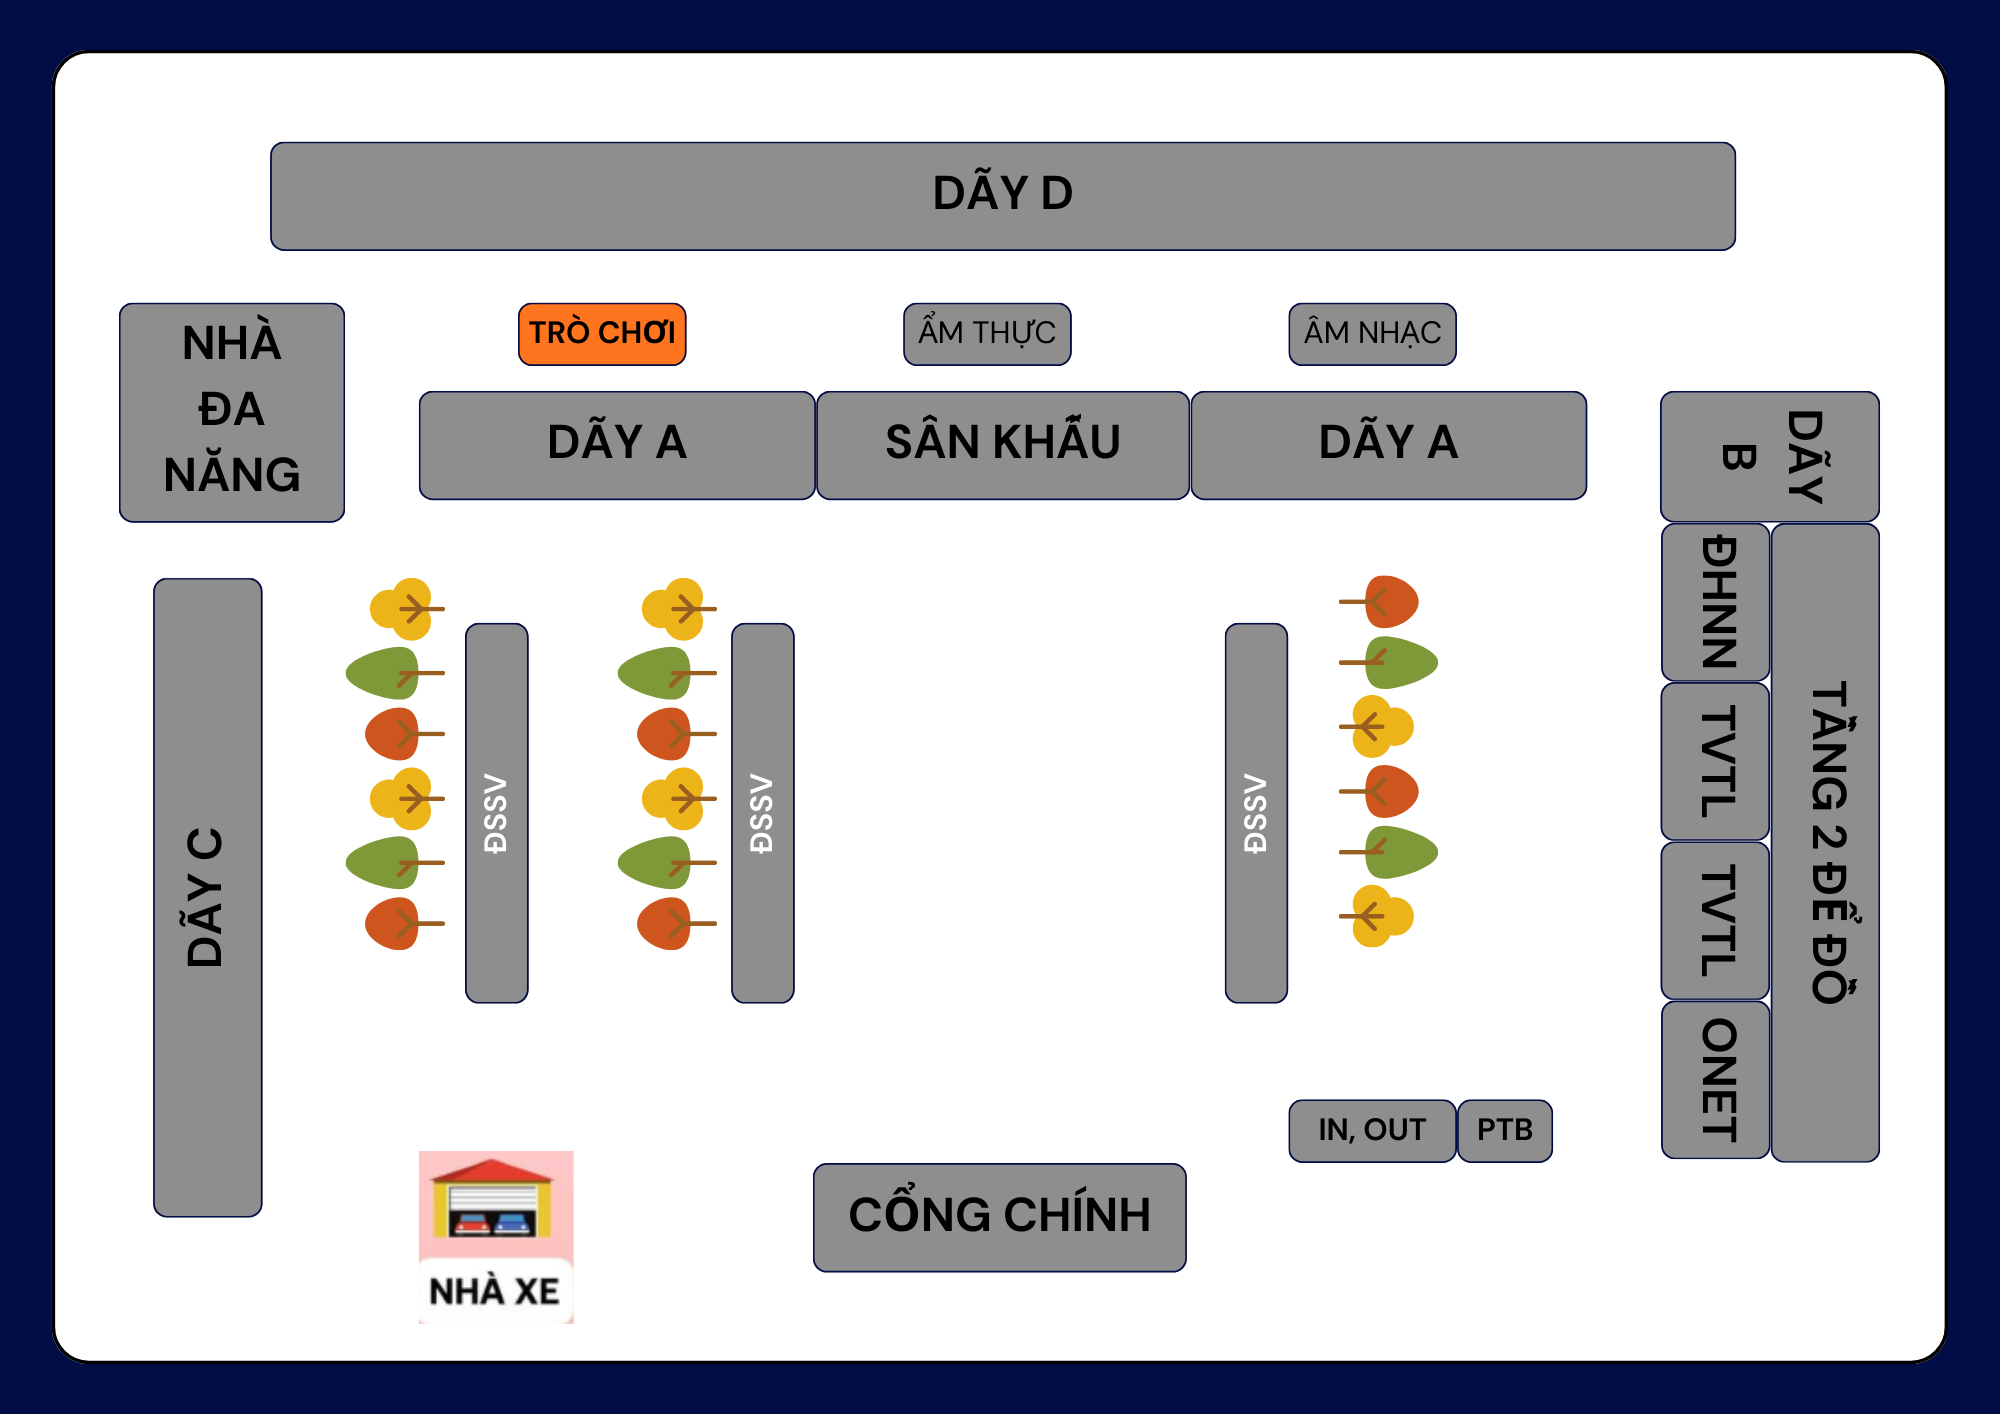
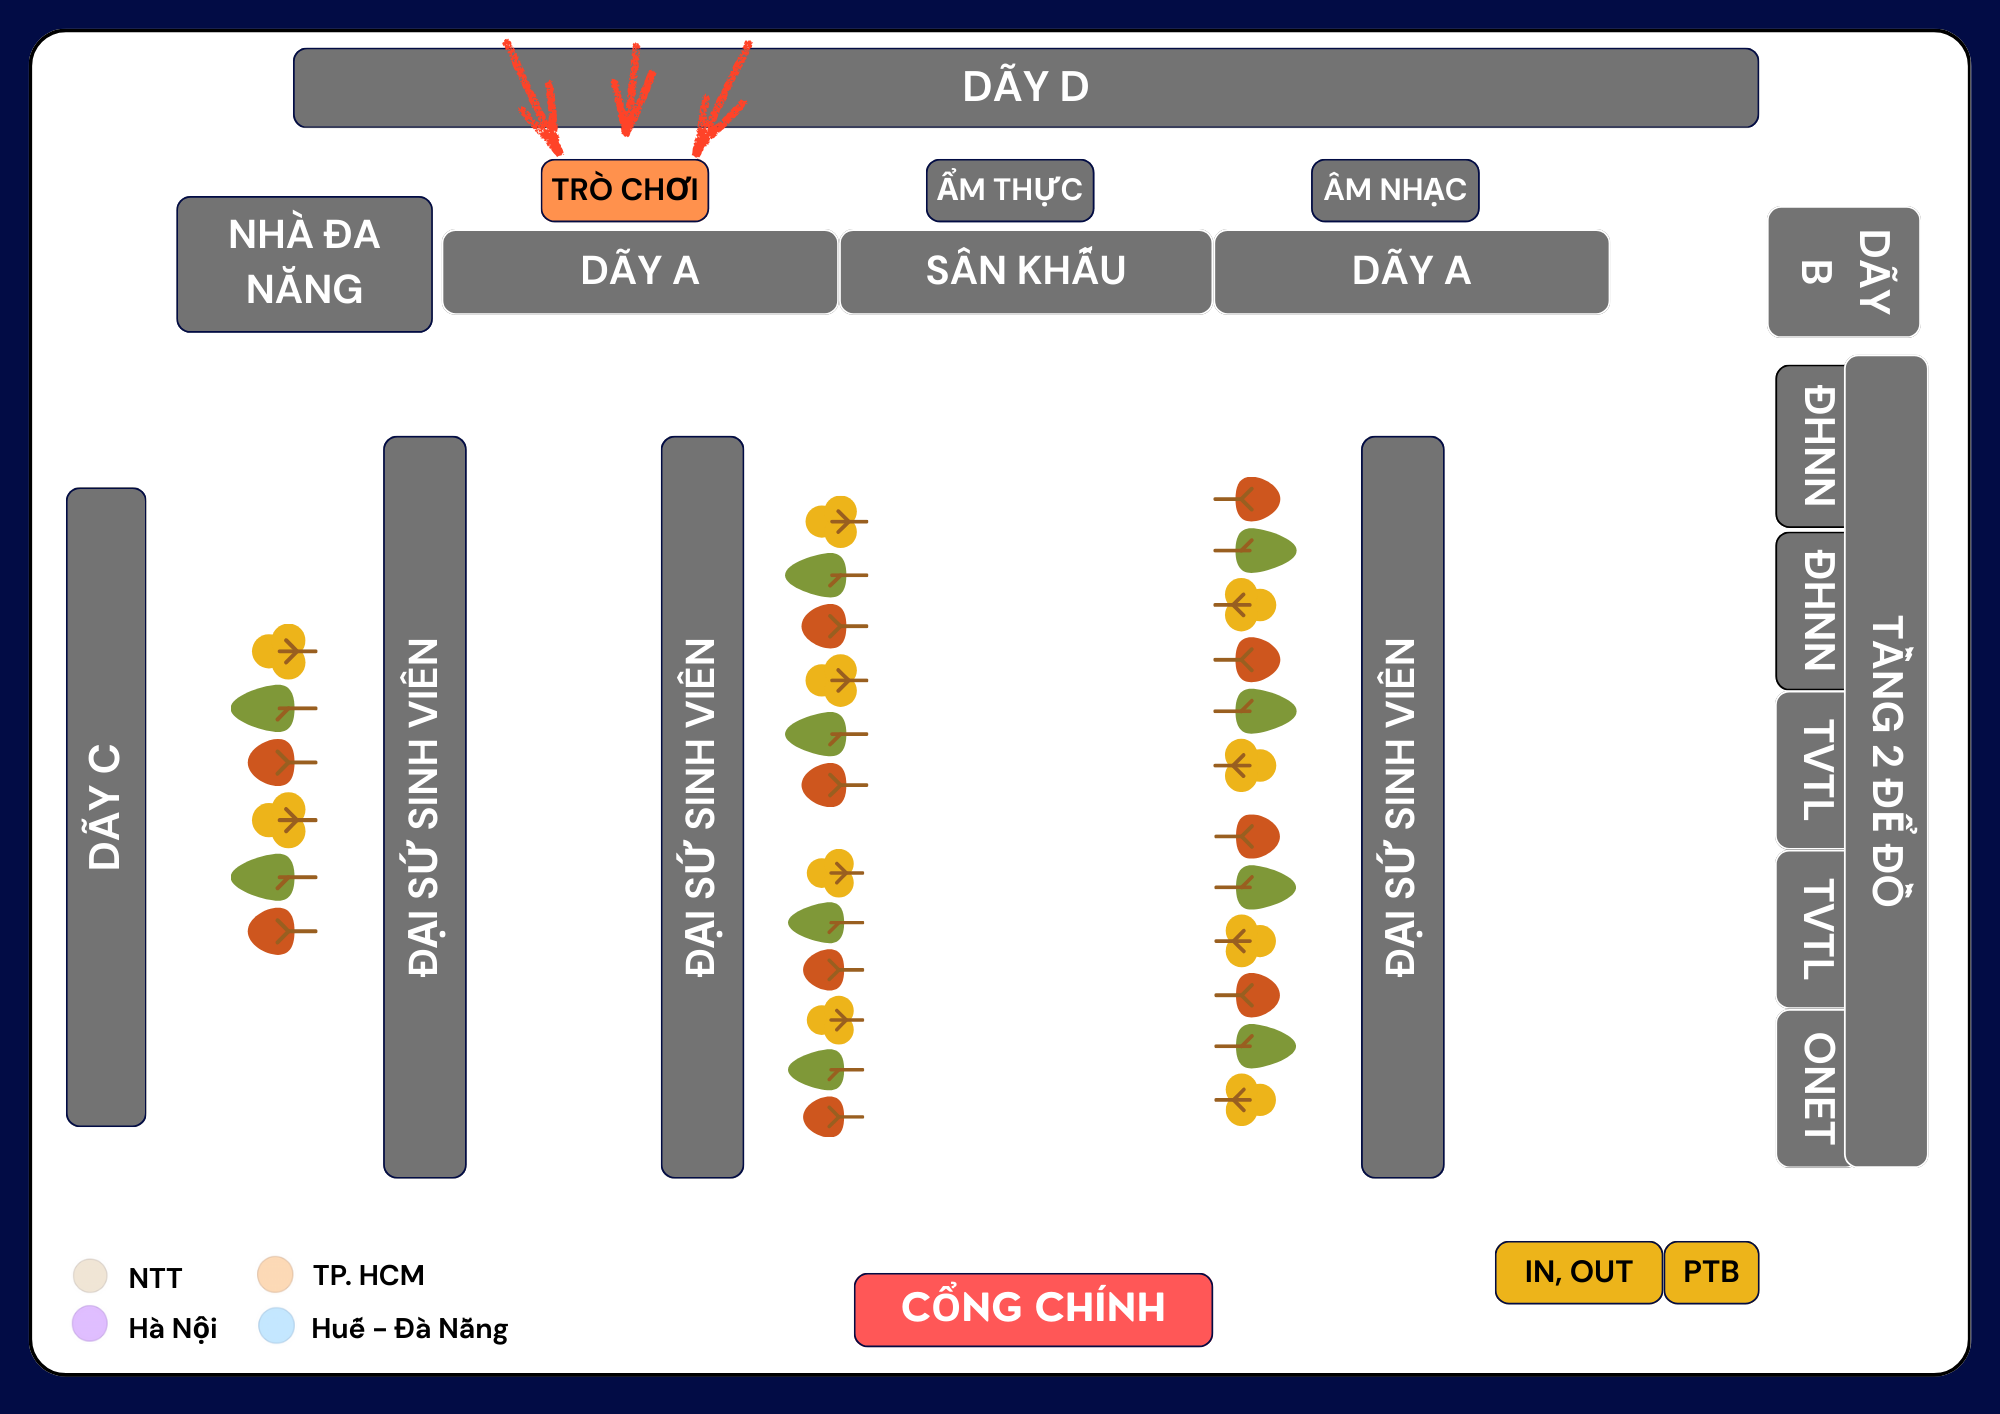
Update maps and images

diff --git a/src/app/utilities/food/page.tsx b/src/app/utilities/food/page.tsx
@@ -5,14 +5,6 @@ import { useRouter } from 'next/navigation';
 import { Card, CardContent, InfoCard } from '@/components/ui';
 import { Header } from '@/components/layout/Header';
 
-const foodStalls = [
-  { id: '1', name: 'Bánh tráng', description: '15k' },
-  { id: '2', name: 'Cơm cháy', description: '10k' },
-  { id: '3', name: 'Bánh Flan', description: '8k' },
-  { id: '4', name: 'Bánh Panna Cotta', description: '8k' },
-  { id: '5', name: 'Bánh bông lan trứng muối mini', description: '20k' },
-  { id: '6', name: 'Trà tắc', description: '12k' },
-];
 
 export default function FoodPage() {
   const router = useRouter();
@@ -24,26 +16,10 @@ export default function FoodPage() {
       <div className="px-4 py-6">
         <img src="/Khu vực ẨM THỰC.png" alt="Khu ẩm thực" className="w-full object-cover  mb-6" />
         
-
-      
-
         {/* Food stalls */}
         <h3 className="text-lg font-bold text-neutral-900 mb-3">MENU ẨM THỰC</h3>
-        <div className="space-y-3">
-          {foodStalls.map((stall) => (
-            <InfoCard
-              key={stall.id}
-              title={stall.name}
-              description={`${stall.description}  `}
-              icon={
-                <svg className="w-5 h-5 text-accent" fill="none" viewBox="0 0 24 24" stroke="currentColor">
-                  <path strokeLinecap="round" strokeLinejoin="round" strokeWidth={2} d="M3 3h2l.4 2M7 13h10l4-8H5.4M7 13L5.4 5M7 13l-2.293 2.293c-.63.63-.184 1.707.707 1.707H17m0 0a2 2 0 100 4 2 2 0 000-4zm-8 2a2 2 0 11-4 0 2 2 0 014 0z" />
-                </svg>
-              }
-              iconBgColor="bg-accent-lighter"
-            />
-          ))}
-        </div>
+         <img src="/Menu.png" alt="Khu ẩm thực" className="w-full object-cover  mb-6" />
+      
       </div>
     </div>
   );

diff --git a/src/app/locations/page.tsx b/src/app/locations/page.tsx
@@ -53,7 +53,7 @@ export default function LocationsPage() {
       
       <div className="px-4 py-6">
         {/* Map */}
-        <img src="/maptoantruong.jpg" alt="Bản đồ toàn trường" className="w-full object-cover rounded-2xl mb-6 shadow-card" />
+        <img src="/maptoantruong.png?v=2" alt="Bản đồ toàn trường" className="w-full object-cover mb-6 shadow-card" />
 
         {/* Quick Access */}
         <div className="mb-6">

diff --git a/src/app/utilities/music/page.tsx b/src/app/utilities/music/page.tsx
@@ -18,7 +18,7 @@ export default function MusicPage() {
       
       <div className="px-4 py-6">
         {/* Map */}
-        <img src="/Khu vực ÂM NHẠC.png" alt="Khu vực âm nhạc" className="w-full object-cover mb-6" />
+        <img src="/music.png" alt="Khu vực âm nhạc" className="w-full object-cover mb-6" />
 
         {/* Schedule */}
         <h3 className="text-lg font-bold text-neutral-900 mb-3">Lịch biểu diễn</h3>
